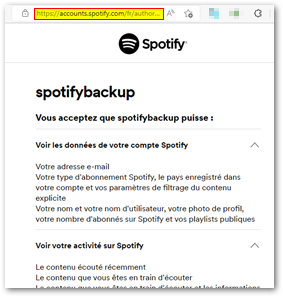
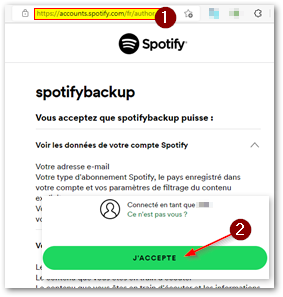
Update README.md

Changed region(s): [[0.1413, 0.6364, 0.9611, 0.9697], [0.5371, 0.0, 0.6219, 0.1212]]

diff --git a/README.md b/README.md
@@ -7,12 +7,10 @@ This full backup can be used to be restored over your account or another one.
 
 You first need to create a Spotify Application.
 
-**Step1**: Go to the [Spotify for Developers](https://developer.spotify.com/dashboard/applications) Dashboard  
-![step1.png](https://github.com/Domochip/spotifybackup/raw/master/img/step1.png)  
-**Step2**: Log in and create an app  
-![step2.png](https://github.com/Domochip/spotifybackup/raw/master/img/step2.png)  
+**Step1**: Go to the [Spotify for Developers](https://developer.spotify.com/dashboard/applications) Dashboard, log in and create an app  
+![step1.png](https://github.com/Domochip/spotifybackup/raw/master/img/step1.png) ![step2.png](https://github.com/Domochip/spotifybackup/raw/master/img/step2.png)  
 **Step3**: Edit settings of the app and add `http://localhost:8080/spotishell` to Redirect URIs  
-![step3.png](https://github.com/Domochip/spotifybackup/raw/master/img/step3.png) ![step3.1.png](https://github.com/Domochip/spotifybackup/raw/master/img/step3.1.png) ![step3.2.png](https://github.com/Domochip/spotifybackup/raw/master/img/step3.2.png) ![step3.3.png](https://github.com/Domochip/spotifybackup/raw/master/img/step3.3.png)  
+![step3.2.png](https://github.com/Domochip/spotifybackup/raw/master/img/step3.2.png) ![step3.3.png](https://github.com/Domochip/spotifybackup/raw/master/img/step3.3.png)  
 **Step4**: Collect Client ID and Secret  
 ![step4.1.png](https://github.com/Domochip/spotifybackup/raw/master/img/step4.1.png) ![step4.2.png](https://github.com/Domochip/spotifybackup/raw/master/img/step4.2.png)  
 
@@ -25,7 +23,7 @@ To setup Spotify connection, you need to run the image in "setup mode" using thi
 Provide Client ID and Client Secret then copy authorization URL:  
 ![setup1.png](https://github.com/Domochip/spotifybackup/raw/master/img/setup1.png)  
 Paste authorization URL in your browser, read then accept:  
-![setup2.png](https://github.com/Domochip/spotifybackup/raw/master/img/setup2.png) ![setup3.png](https://github.com/Domochip/spotifybackup/raw/master/img/setup3.png)  
+![setup2.png](https://github.com/Domochip/spotifybackup/raw/master/img/setup2.png)  
 Copy the redirected url from the address bar:  
 ![setup4.png](https://github.com/Domochip/spotifybackup/raw/master/img/setup4.png)  
 Paste it into the setup container window (you should then receive a green result):  
